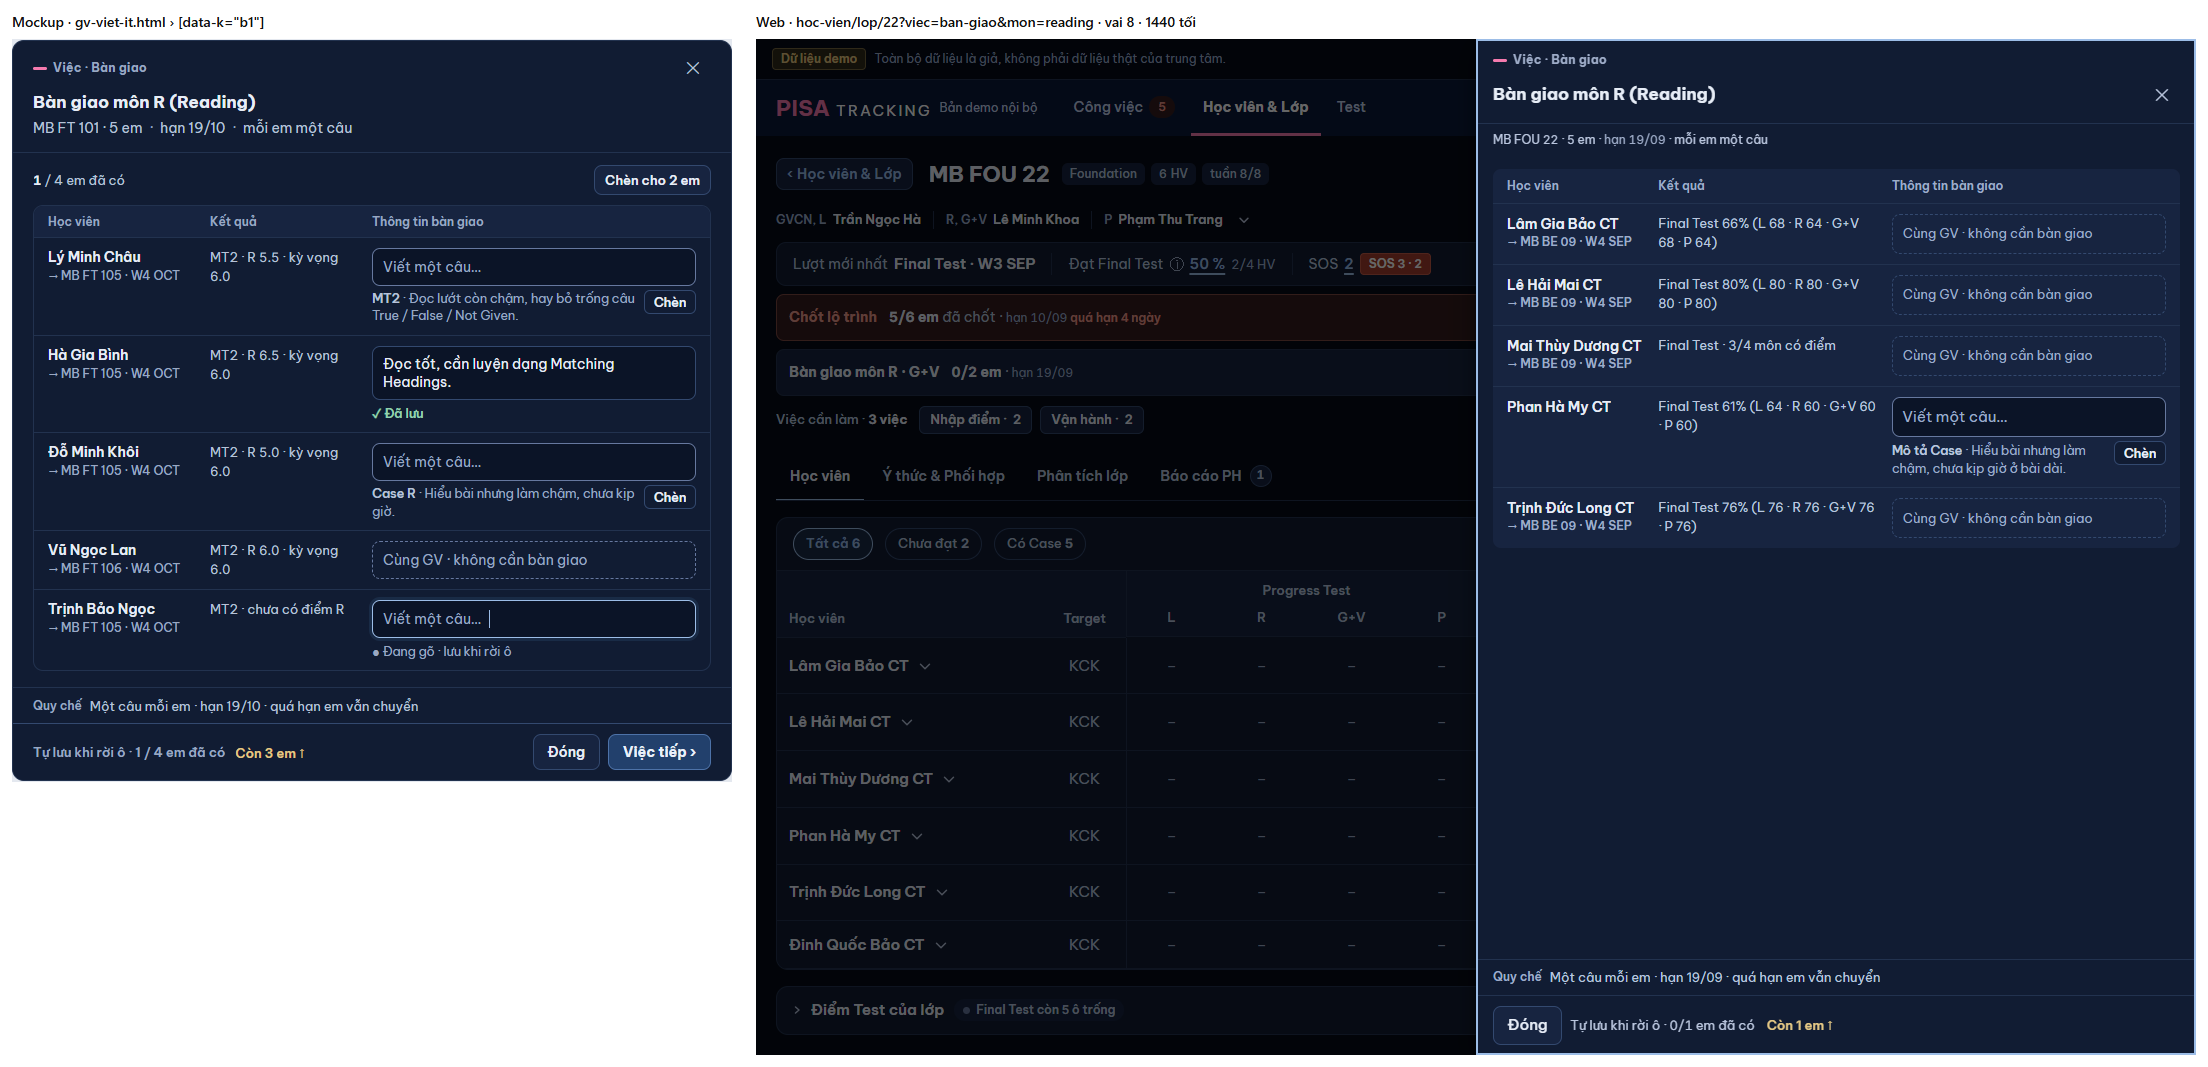
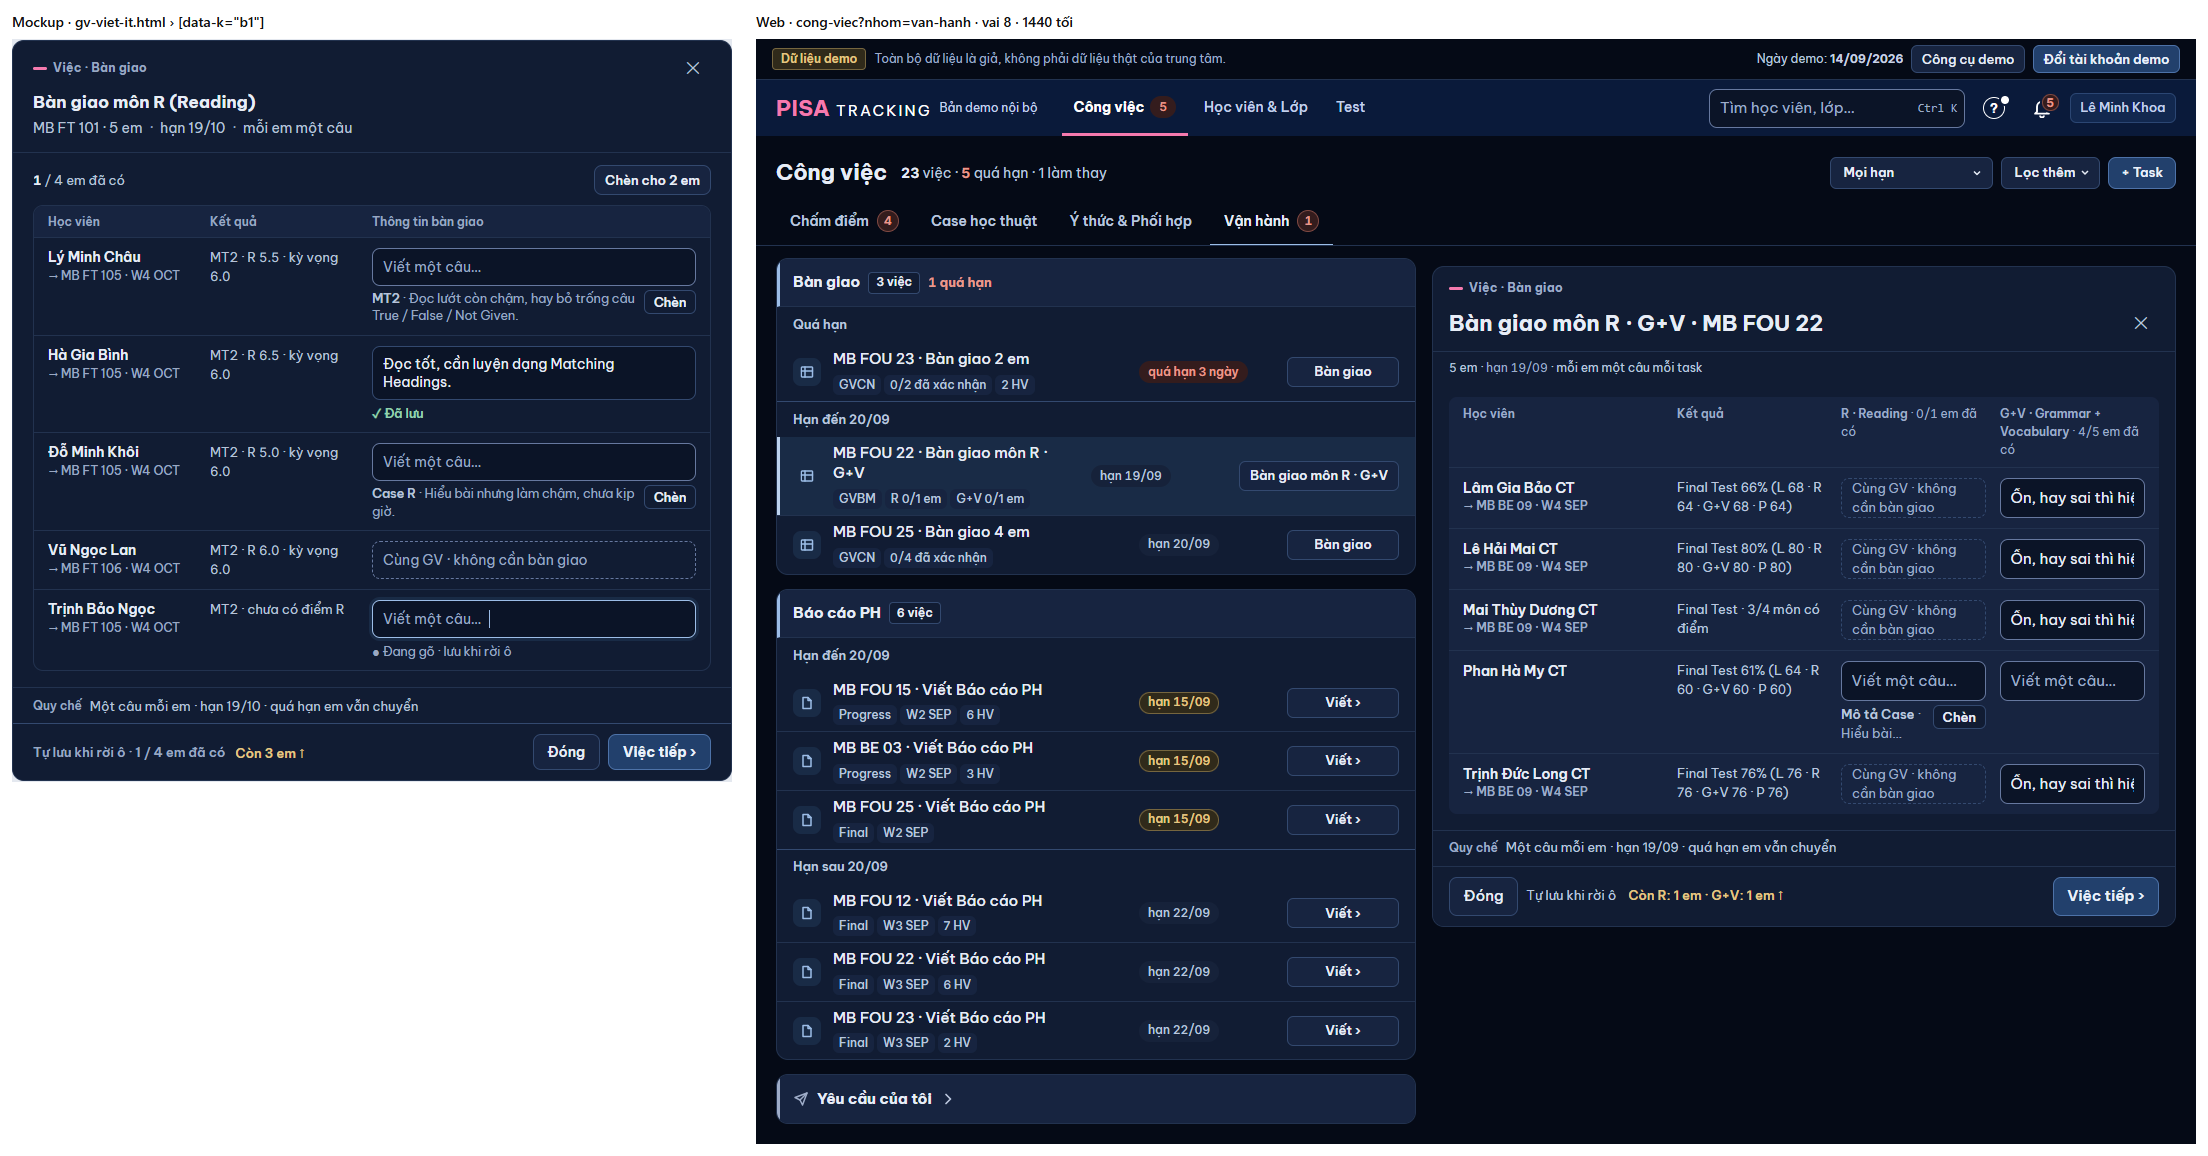
GD-20b (rà PTA): Việc tiếp › luôn là nút chính khi mở từ Công việc; chụp lại b1 + e2

diff --git a/web/src/modules/classes/BanGiaoPanel.tsx b/web/src/modules/classes/BanGiaoPanel.tsx
@@ -451,8 +451,8 @@ function BangGvbm({ dto, mons, lenhId, onClose, onDone, reload, quayLai, onTiep 
       chan={{
         daSua,
         huy: { nhan: t('Đóng'), onClick: dongSauKhiLuu(hang, dongHan, baoChuaLuu, true) },
-        /* GD-4d: ô tự lưu khi rời ô — còn việc kế thì "Việc tiếp ›" (chờ ô đang lưu như Đóng); hết em thiếu → nút chính. */
-        chinh: onTiep ? <button type="button" className={`btn ${conThieu.length ? '' : 'btn-primary'} min-h-[44px] sm:min-h-0`} onClick={dongSauKhiLuu(hang, () => { onDone(); onTiep(); }, baoChuaLuu, true)}>{t('Việc tiếp ›')}</button> : undefined,
+        /* GD-4d: ô tự lưu khi rời ô — còn việc kế thì "Việc tiếp ›" (chờ ô đang lưu như Đóng). GD-20b (mockup ⑫ B1 · E2, PTA rà #1745): luôn là nút chính, phải. */
+        chinh: onTiep ? <button type="button" className="btn btn-primary min-h-[44px] sm:min-h-0" onClick={dongSauKhiLuu(hang, () => { onDone(); onTiep(); }, baoChuaLuu, true)}>{t('Việc tiếp ›')}</button> : undefined,
         trai: (
           <span className="flex flex-wrap items-center gap-x-3 text-[13px] text-slate-400">
             <span className="tabular-nums">{hai ? t('Tự lưu khi rời ô') : t('Tự lưu khi rời ô · {a}/{b} em đã có', { a: dem[0].da, b: dem[0].can })}</span>

diff --git a/docs/anh/gd20b-ban-giao-chen/khop-khac.md b/docs/anh/gd20b-ban-giao-chen/khop-khac.md
@@ -6,10 +6,10 @@ Dùng chung thành phần của GD-20a (`web/src/ui/KhoiDaGhi.tsx`: `KhoiDaGhi` 
 Seed không có đủ ca → thêm vào DB demo CỤC BỘ (không commit, như session mockup): mô tả Case R / W2 cho vài em MB FOU 22 · MB FT 103, Tình hình học tập 2 em MB FT 103, một việc bàn giao đổi GV (MB FT 101 · R: GV 7 → GV 9); xoá câu R seed sẵn của phiếu MB FOU 22.
 | Ảnh | Khung | Web |
 |---|---|---|
-| `cap-1440-toi-b1.png` | B1 | GV 8 · Bàn giao môn R (MB FOU 22): ô trống có dòng "Mô tả Case · câu" + Chèn; "Cùng GV" không có dòng |
+| `cap-1440-toi-b1.png` | B1 | GV 8 · mở từ Công việc › Vận hành › Bàn giao môn R · G+V (MB FOU 22, bảng hai cột vì GV dạy cả R và G+V): ô trống có dòng "Mô tả Case · câu" + Chèn; "Cùng GV" không dòng; chân Đóng · Việc tiếp › (nút chính) |
 | `cap-1440-toi-b3.png` | B3 | GV 10 (GVCN MB FT 103): "Chèn cho 2 em" đầu danh sách, khối "Bạn đã ghi tháng này" cạnh Nhận xét chung, nút "GVCN xác nhận bàn giao" giữ |
 | `cap-1440-toi-b4.png` | B4 | GV 7 · đổi GV MB FT 101 · R sau "Chèn cho 9 em": dải "✓ Đã chèn 9 em · Hoàn tác", chip "Đã chèn", khối cạnh ô góp ý, "Xác nhận bàn giao" giữ |
-| `cap-375-sang-e2.png` | E2 | 375 sáng · thẻ từng em, Chèn 44 px |
+| `cap-375-sang-e2.png` | E2 | 375 sáng · mở từ Công việc · thẻ từng em, Chèn 44 px, chân Đóng · Việc tiếp › |
 
 B2 (dải sau "Chèn cho n em" ở bảng GVBM): seed chỉ có một ô GVBM không "Cùng GV" nên nút không hiện (cần ≥ 2); cùng `useChenLo` + `DaiChenLo` với B4 (ảnh b4) — bấm thử ở mục "Bấm thử".
 
@@ -43,6 +43,11 @@ B2 (dải sau "Chèn cho n em" ở bảng GVBM): seed chỉ có một ô GVBM kh
 | GVCN viết Nhận xét chung (nháp), Viết / Điền thay câu GVBM, Xác nhận từng em, Sửa → Huỷ thay đổi / Lưu, ↑↓ | có | có + **Chèn** cạnh ô, **Chèn cho n em** + Hoàn tác | MỚI |
 | Đổi GV: góp ý từng em, Nhận xét chung cả lớp, Em tiếp ↓, Xác nhận bàn giao, Xác nhận · việc tiếp › | có | có + **Chèn** cạnh ô, **Chèn cho n em** + Hoàn tác, chip "Đã chèn" | MỚI |
 | Tự điền · chỉ đọc (`TuDien`) | có | có | GIỮ |
+
+## Sửa sau rà PTA (#1745)
+- [XM-c] PTA đồng ý.
+- Chân bảng GVBM: mở từ Công việc (có việc kế) → "Việc tiếp ›" luôn là nút chính bên phải (trước: nút thường khi còn em thiếu); mở từ hồ sơ lớp → chỉ "Đóng". Chụp lại b1 + e2 từ Công việc.
+- Ghi nhận (ngoài PR): tiêu đề panel 375 "Bàn giao môn R · G+V · MB F…" bị cắt — tiêu đề `KhungPanel` có sẵn, chưa đổi ở PR này.
 
 ## Máy chủ
 - `POST /lenh-chuyen/:id/ban-giao-mon/go-chen` · `POST /ban-giao-gv/:id/gop-y/go-chen`: Hoàn tác "Chèn cho n em" — máy chủ không nhận câu rỗng nên cần đường gỡ. Cùng quyền ghi; chỉ xoá khi câu đang lưu ĐÚNG bằng câu vừa chèn (đã sửa → giữ, `ok: false`); có nhật ký (`ban_giao.go_chen`, `ban_giao_gv.go_chen`). Nhận xét chung GVCN: dùng đường nháp sẵn có (nhận rỗng).
